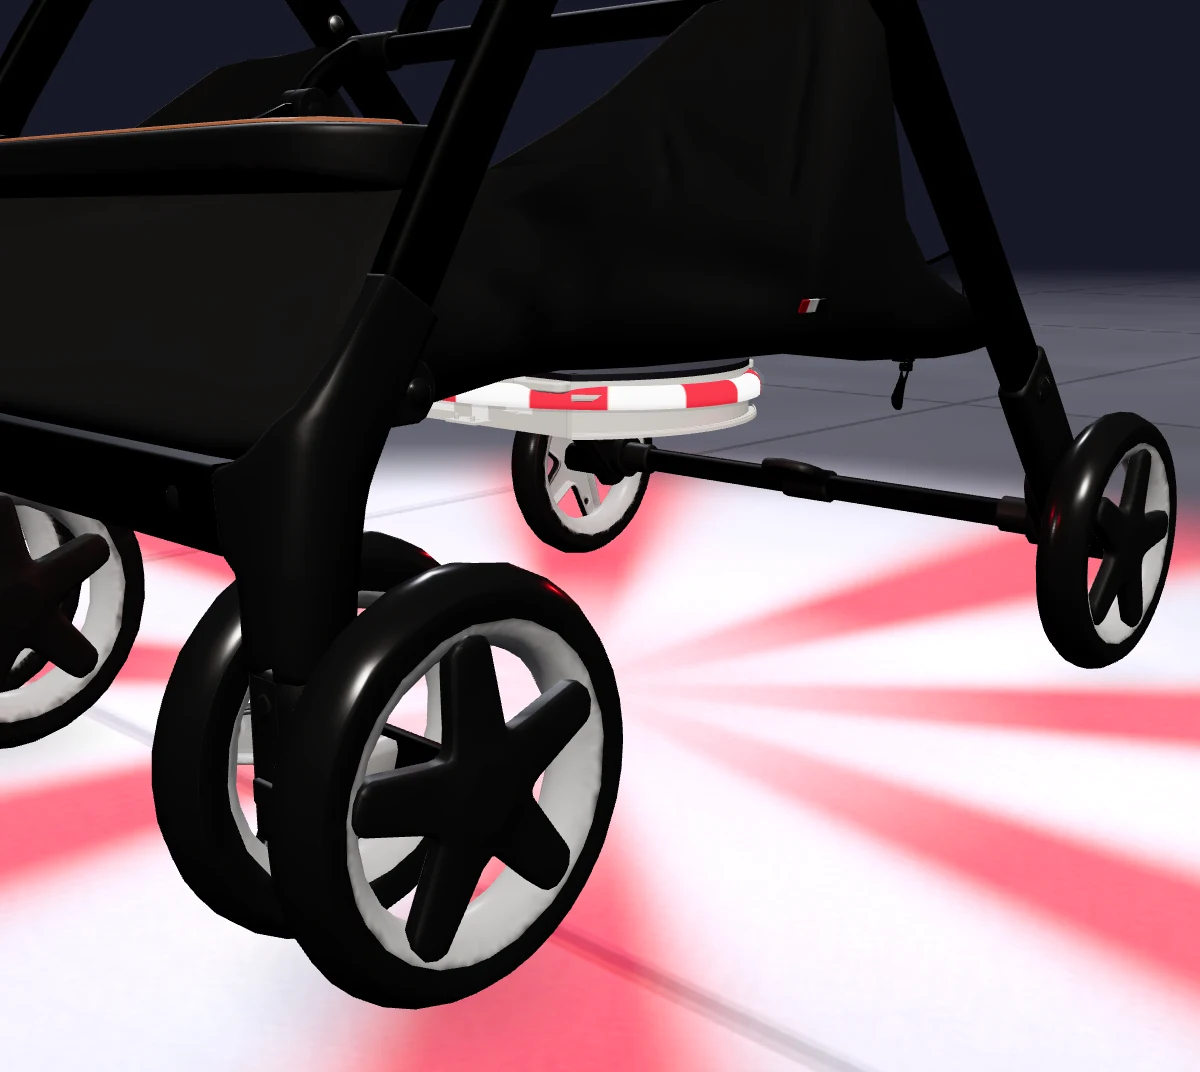
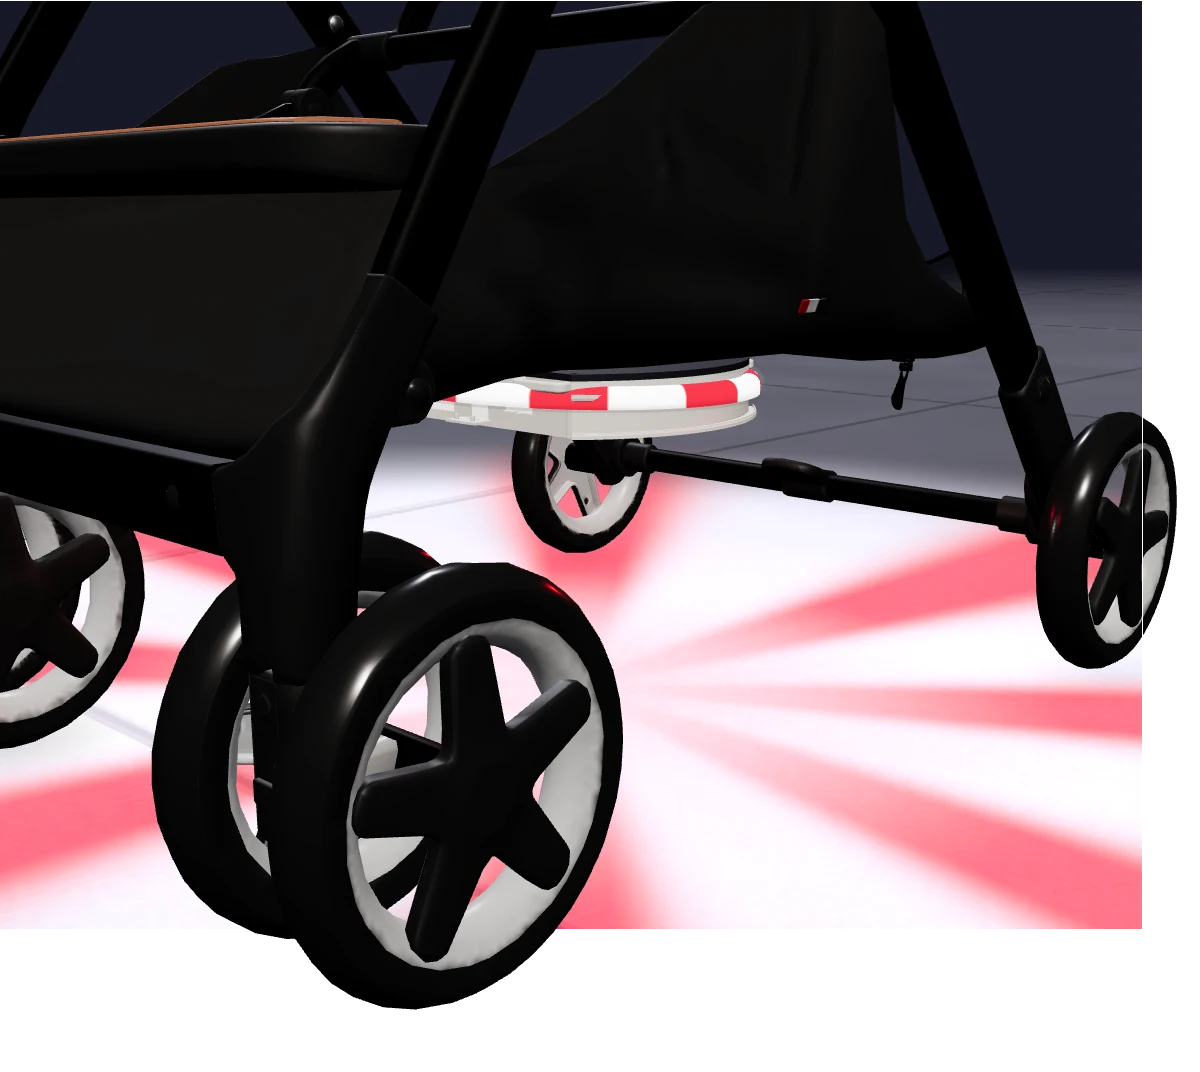
Limit hero breakout to stroller geometry
Clip the environment and underglow to the inset viewport while rendering stroller geometry into transparent overflow regions. Generate matching alpha-enabled fallback posters.

diff --git a/src/components/home/stroller-hero-scene.ts b/src/components/home/stroller-hero-scene.ts
@@ -180,7 +180,7 @@ function getGroundContactBounds(root: THREE.Object3D) {
   return contacts;
 }
 
-export async function createHeroScene(host: HTMLElement, initialMode: LightMode, onFailure: () => void, modelData?: HeroModelBuffers, signal?: AbortSignal): Promise<HeroSceneHandle> {
+export async function createHeroScene(host: HTMLElement, initialMode: LightMode, onFailure: () => void, modelData?: HeroModelBuffers, signal?: AbortSignal, viewport: HTMLElement = host): Promise<HeroSceneHandle> {
   const resources = createResourceTracker();
   const scene = new THREE.Scene();
   let renderer: THREE.WebGLRenderer | undefined;
@@ -206,7 +206,7 @@ export async function createHeroScene(host: HTMLElement, initialMode: LightMode,
   try {
     signal?.throwIfAborted();
     signal?.addEventListener("abort", dispose, { once: true });
-    renderer = new THREE.WebGLRenderer({ antialias: true, alpha: false, powerPreference: "low-power", failIfMajorPerformanceCaveat: true });
+    renderer = new THREE.WebGLRenderer({ antialias: true, alpha: true, powerPreference: "low-power", failIfMajorPerformanceCaveat: true });
     const view = renderer;
     const canvas = view.domElement;
     const lost = (event: Event) => {
@@ -226,7 +226,8 @@ export async function createHeroScene(host: HTMLElement, initialMode: LightMode,
     view.shadowMap.autoUpdate = false;
     view.shadowMap.needsUpdate = true;
     view.debug.onShaderError = () => { throw new Error("Hero shader initialization failed"); };
-    scene.background = new THREE.Color(config.environment.background);
+    const sceneBackground = new THREE.Color(config.environment.background);
+    scene.background = sceneBackground;
     scene.fog = new THREE.Fog(config.environment.background, config.stage.fogNear, config.stage.fogFar);
     const camera = new THREE.PerspectiveCamera(config.camera.fov, 1, 0.05, 12);
     const cameraTarget = new THREE.Vector3().fromArray(config.camera.target);
@@ -436,17 +437,61 @@ export async function createHeroScene(host: HTMLElement, initialMode: LightMode,
       scene.add(light, light.target);
       return { angle, light };
     });
+    const overflowLayer = 1;
+    inspection.traverse((object) => object.layers.enable(overflowLayer));
+    scene.traverse((object) => {
+      if (object instanceof THREE.Light) object.layers.enable(overflowLayer);
+    });
+    camera.layers.enable(overflowLayer);
 
     let mode = initialMode, elapsed = 0, activationElapsed = 0, previous = 0;
+    let renderWidth = 1, renderHeight = 1;
+    let viewportX = 0, viewportY = 0, viewportWidth = 1, viewportHeight = 1;
     let targetX = 0, targetY = 0, pitch = 0, yaw = 0;
     let pointerId: number | null = null;
     let dragging = false;
     let startX = 0, startY = 0, startTargetX = 0, startTargetY = 0;
     // Inspection owns one-finger drags; native page pinch zoom remains available.
     canvas.style.touchAction = "pinch-zoom";
+    const draw = () => {
+      const cameraMask = camera.layers.mask;
+      view.setScissorTest(false);
+      view.setClearColor(sceneBackground, 0);
+      view.clear(true, true, true);
+      view.setScissor(viewportX, viewportY, viewportWidth, viewportHeight);
+      view.setScissorTest(true);
+      scene.background = sceneBackground;
+      view.render(scene, camera);
+
+      scene.background = null;
+      camera.layers.set(overflowLayer);
+      const viewportRight = viewportX + viewportWidth;
+      if (viewportRight < renderWidth) {
+        view.setScissor(viewportRight, 0, renderWidth - viewportRight, renderHeight);
+        view.render(scene, camera);
+      }
+      if (viewportY > 0) {
+        view.setScissor(0, 0, Math.min(viewportRight, renderWidth), viewportY);
+        view.render(scene, camera);
+      }
+      camera.layers.mask = cameraMask;
+      scene.background = sceneBackground;
+      view.setScissorTest(false);
+    };
     const resize = () => {
       const rect = host.getBoundingClientRect();
       const width = Math.max(rect.width, 1), height = Math.max(rect.height, 1);
+      const viewportRect = viewport.getBoundingClientRect();
+      const left = THREE.MathUtils.clamp(viewportRect.left - rect.left, 0, width);
+      const top = THREE.MathUtils.clamp(viewportRect.top - rect.top, 0, height);
+      const right = THREE.MathUtils.clamp(viewportRect.right - rect.left, left, width);
+      const bottom = THREE.MathUtils.clamp(viewportRect.bottom - rect.top, top, height);
+      renderWidth = width;
+      renderHeight = height;
+      viewportX = left;
+      viewportY = height - bottom;
+      viewportWidth = Math.max(right - left, 1);
+      viewportHeight = Math.max(bottom - top, 1);
       view.setSize(width, height);
       camera.aspect = width / height;
       camera.updateProjectionMatrix();
@@ -531,15 +576,16 @@ export async function createHeroScene(host: HTMLElement, initialMode: LightMode,
       orbit.makeSafe();
       camera.position.setFromSpherical(orbit).add(cameraTarget);
       camera.lookAt(cameraTarget);
-      try { view.render(scene, camera); } catch { fail(); return; }
+      try { draw(); } catch { fail(); return; }
       if (!disposed) frame = requestAnimationFrame(render);
     };
     observer = new ResizeObserver(resize);
     observer.observe(host);
+    if (viewport !== host) observer.observe(viewport);
     resize();
     setMode(initialMode);
     // No canvas is attached until textures, setup, and the first frame all succeed.
-    view.render(scene, camera);
+    draw();
     if (contextLost || view.getContext().isContextLost()) throw new Error("Hero WebGL context was lost");
     host.appendChild(canvas);
     initialized = true;
@@ -567,7 +613,7 @@ export async function createHeroScene(host: HTMLElement, initialMode: LightMode,
         activationElapsed = config.emission.activationSeconds;
         updateLighting(1);
         view.shadowMap.needsUpdate = true;
-        try { view.render(scene, camera); } catch (error) { fail(); throw error; }
+        try { draw(); } catch (error) { fail(); throw error; }
       },
       dispose,
     };

diff --git a/src/app/globals.css b/src/app/globals.css
@@ -1,16 +1,16 @@
 @import "tailwindcss";
 
-.interactive-hero { --hero-breakout-x: clamp(1.25rem, 5vw, 1.75rem); --hero-breakout-y: clamp(1.1rem, 4.5vw, 1.55rem); --hero-frame-bottom: clamp(2.25rem, 8vw, 2.75rem); position: relative; width: 100%; border: 1px solid #ded7ed; border-radius: 2rem; background: #eeeafd; overflow: visible; box-shadow: 0 24px 70px #5a0fea0c; }
+.interactive-hero { --hero-breakout-x: 5%; --hero-breakout-y: 5%; --hero-frame-bottom: 9%; position: relative; width: 100%; border: 1px solid #ded7ed; border-radius: 2rem; background: #eeeafd; overflow: visible; box-shadow: 0 24px 70px #5a0fea0c; }
 .interactive-hero-stage { position: relative; z-index: 1; aspect-ratio: 1.12; }
 .interactive-hero-stage, .interactive-hero-stage * { -webkit-user-select: none; user-select: none; -webkit-touch-callout: none; -webkit-tap-highlight-color: transparent; }
-.interactive-hero-render { position: absolute; inset: 0 calc(-1 * var(--hero-breakout-x)) calc(-1 * var(--hero-breakout-y)) 0; overflow: hidden; border-radius: 2rem 2rem 1.5rem .5rem; background: #171827; }
-.interactive-hero-frame { position: absolute; inset: -1px -1px var(--hero-frame-bottom); z-index: 2; border: 1px solid #ded7ed; border-radius: 2rem; pointer-events: none; }
+.interactive-hero-render { position: absolute; inset: 0 calc(-1 * var(--hero-breakout-x)) calc(-1 * var(--hero-breakout-y)) 0; z-index: 2; overflow: hidden; border-radius: 2rem 2rem 1.5rem .5rem; }
+.interactive-hero-frame { position: absolute; inset: -1px -1px var(--hero-frame-bottom); z-index: 3; border: 1px solid #ded7ed; border-radius: 2rem; pointer-events: none; }
 .interactive-hero-canvas { position: absolute; inset: 0; opacity: 0; pointer-events: none; transition: opacity 650ms ease; }
 .interactive-hero-canvas.is-ready { opacity: 1; cursor: grab; pointer-events: auto; }
 .interactive-hero-canvas.is-ready:active { cursor: grabbing; }
 .interactive-hero-canvas canvas { display: block; width: 100%; height: 100%; }
-.interactive-hero-badge { position: absolute; top: 1.25rem; left: 1.4rem; z-index: 3; font-size: .65rem; font-weight: 700; letter-spacing: .09em; text-transform: uppercase; color: #e2d8f6; pointer-events: none; }
-.hero-mode-controls { position: relative; z-index: 2; display: flex; flex-wrap: wrap; justify-content: center; gap: .25rem; margin-top: var(--hero-breakout-y); padding: .5rem .35rem; }
+.interactive-hero-badge { position: absolute; top: 1.25rem; left: 1.4rem; z-index: 4; font-size: .65rem; font-weight: 700; letter-spacing: .09em; text-transform: uppercase; color: #e2d8f6; pointer-events: none; }
+.hero-mode-controls { position: relative; z-index: 2; display: flex; flex-wrap: wrap; justify-content: center; gap: .25rem; margin-top: 4.5%; padding: .5rem .35rem; }
 .hero-mode-controls button { display: inline-flex; flex: 1; align-items: center; justify-content: center; gap: .3rem; min-height: 44px; padding: .6rem .35rem; border-radius: 999px; border: 1px solid #d6cee4; background: #ffffff80; font-size: .72rem; font-weight: 700; color: #30253e; cursor: pointer; white-space: nowrap; }
 .hero-mode-controls button[aria-pressed="true"] { background: #30203e; border-color: #30203e; color: white; }
 .hero-mode-controls .hero-3d-switch { flex: none; background: transparent; border-color: transparent; }

diff --git a/src/components/home/interactive-hero-media.tsx b/src/components/home/interactive-hero-media.tsx
@@ -17,6 +17,7 @@ type HeroControls = { refresh(): Promise<void>; explore(): void; showImage(): vo
 
 export function InteractiveHeroMedia({ sceneAvailable = false }: { sceneAvailable?: boolean }) {
   const host = useRef<HTMLDivElement>(null);
+  const viewport = useRef<HTMLSpanElement>(null);
   const scene = useRef<HeroSceneHandle | null>(null);
   const controls = useRef<HeroControls | null>(null);
   const posterLoaded = useRef(false);
@@ -96,7 +97,7 @@ export function InteractiveHeroMedia({ sceneAvailable = false }: { sceneAvailabl
           if (disposed || attempt !== generation) return;
           failed = true;
           stop("error");
-        }, models, abort.signal);
+        }, models, abort.signal, viewport.current ?? element);
         if (disposed || attempt !== generation || !eligible()) { handle.dispose(); return; }
         scene.current = handle;
         handle.setMode(modeRef.current);
@@ -135,7 +136,7 @@ export function InteractiveHeroMedia({ sceneAvailable = false }: { sceneAvailabl
 
   return (
     <figure className="interactive-hero" aria-label="Explore the Glowbaby stroller light concept">
-      <div className="interactive-hero-stage" style={{ backgroundColor: heroSceneConfig.environment.background }} onContextMenu={(event) => event.preventDefault()}>
+      <div className="interactive-hero-stage" onContextMenu={(event) => event.preventDefault()}>
         <div className="interactive-hero-render">
           <Image src={posters[mode]} alt="Close-up of the Glowbaby prototype beneath a stroller basket, casting colored light across a concrete sidewalk at dusk." fill draggable={false} loading="eager" fetchPriority="high" sizes="(min-width: 1240px) 600px, (min-width: 1024px) calc((100vw - 5rem) / 2), (min-width: 640px) calc(100vw - 2rem), calc(100vw - .75rem)" className="object-contain" onLoad={() => {
             posterLoaded.current = true;
@@ -143,7 +144,7 @@ export function InteractiveHeroMedia({ sceneAvailable = false }: { sceneAvailabl
           }} />
           <div ref={host} className={`interactive-hero-canvas ${ready ? "is-ready" : ""}`} aria-hidden="true" />
         </div>
-        <span className="interactive-hero-frame" aria-hidden="true" />
+        <span ref={viewport} className="interactive-hero-frame" aria-hidden="true" />
         <span className="interactive-hero-badge">{ready ? "Drag to explore" : "Made for a little more color"}</span>
       </div>
       <div className="hero-mode-controls" role="group" aria-label="Preview a light mode">
